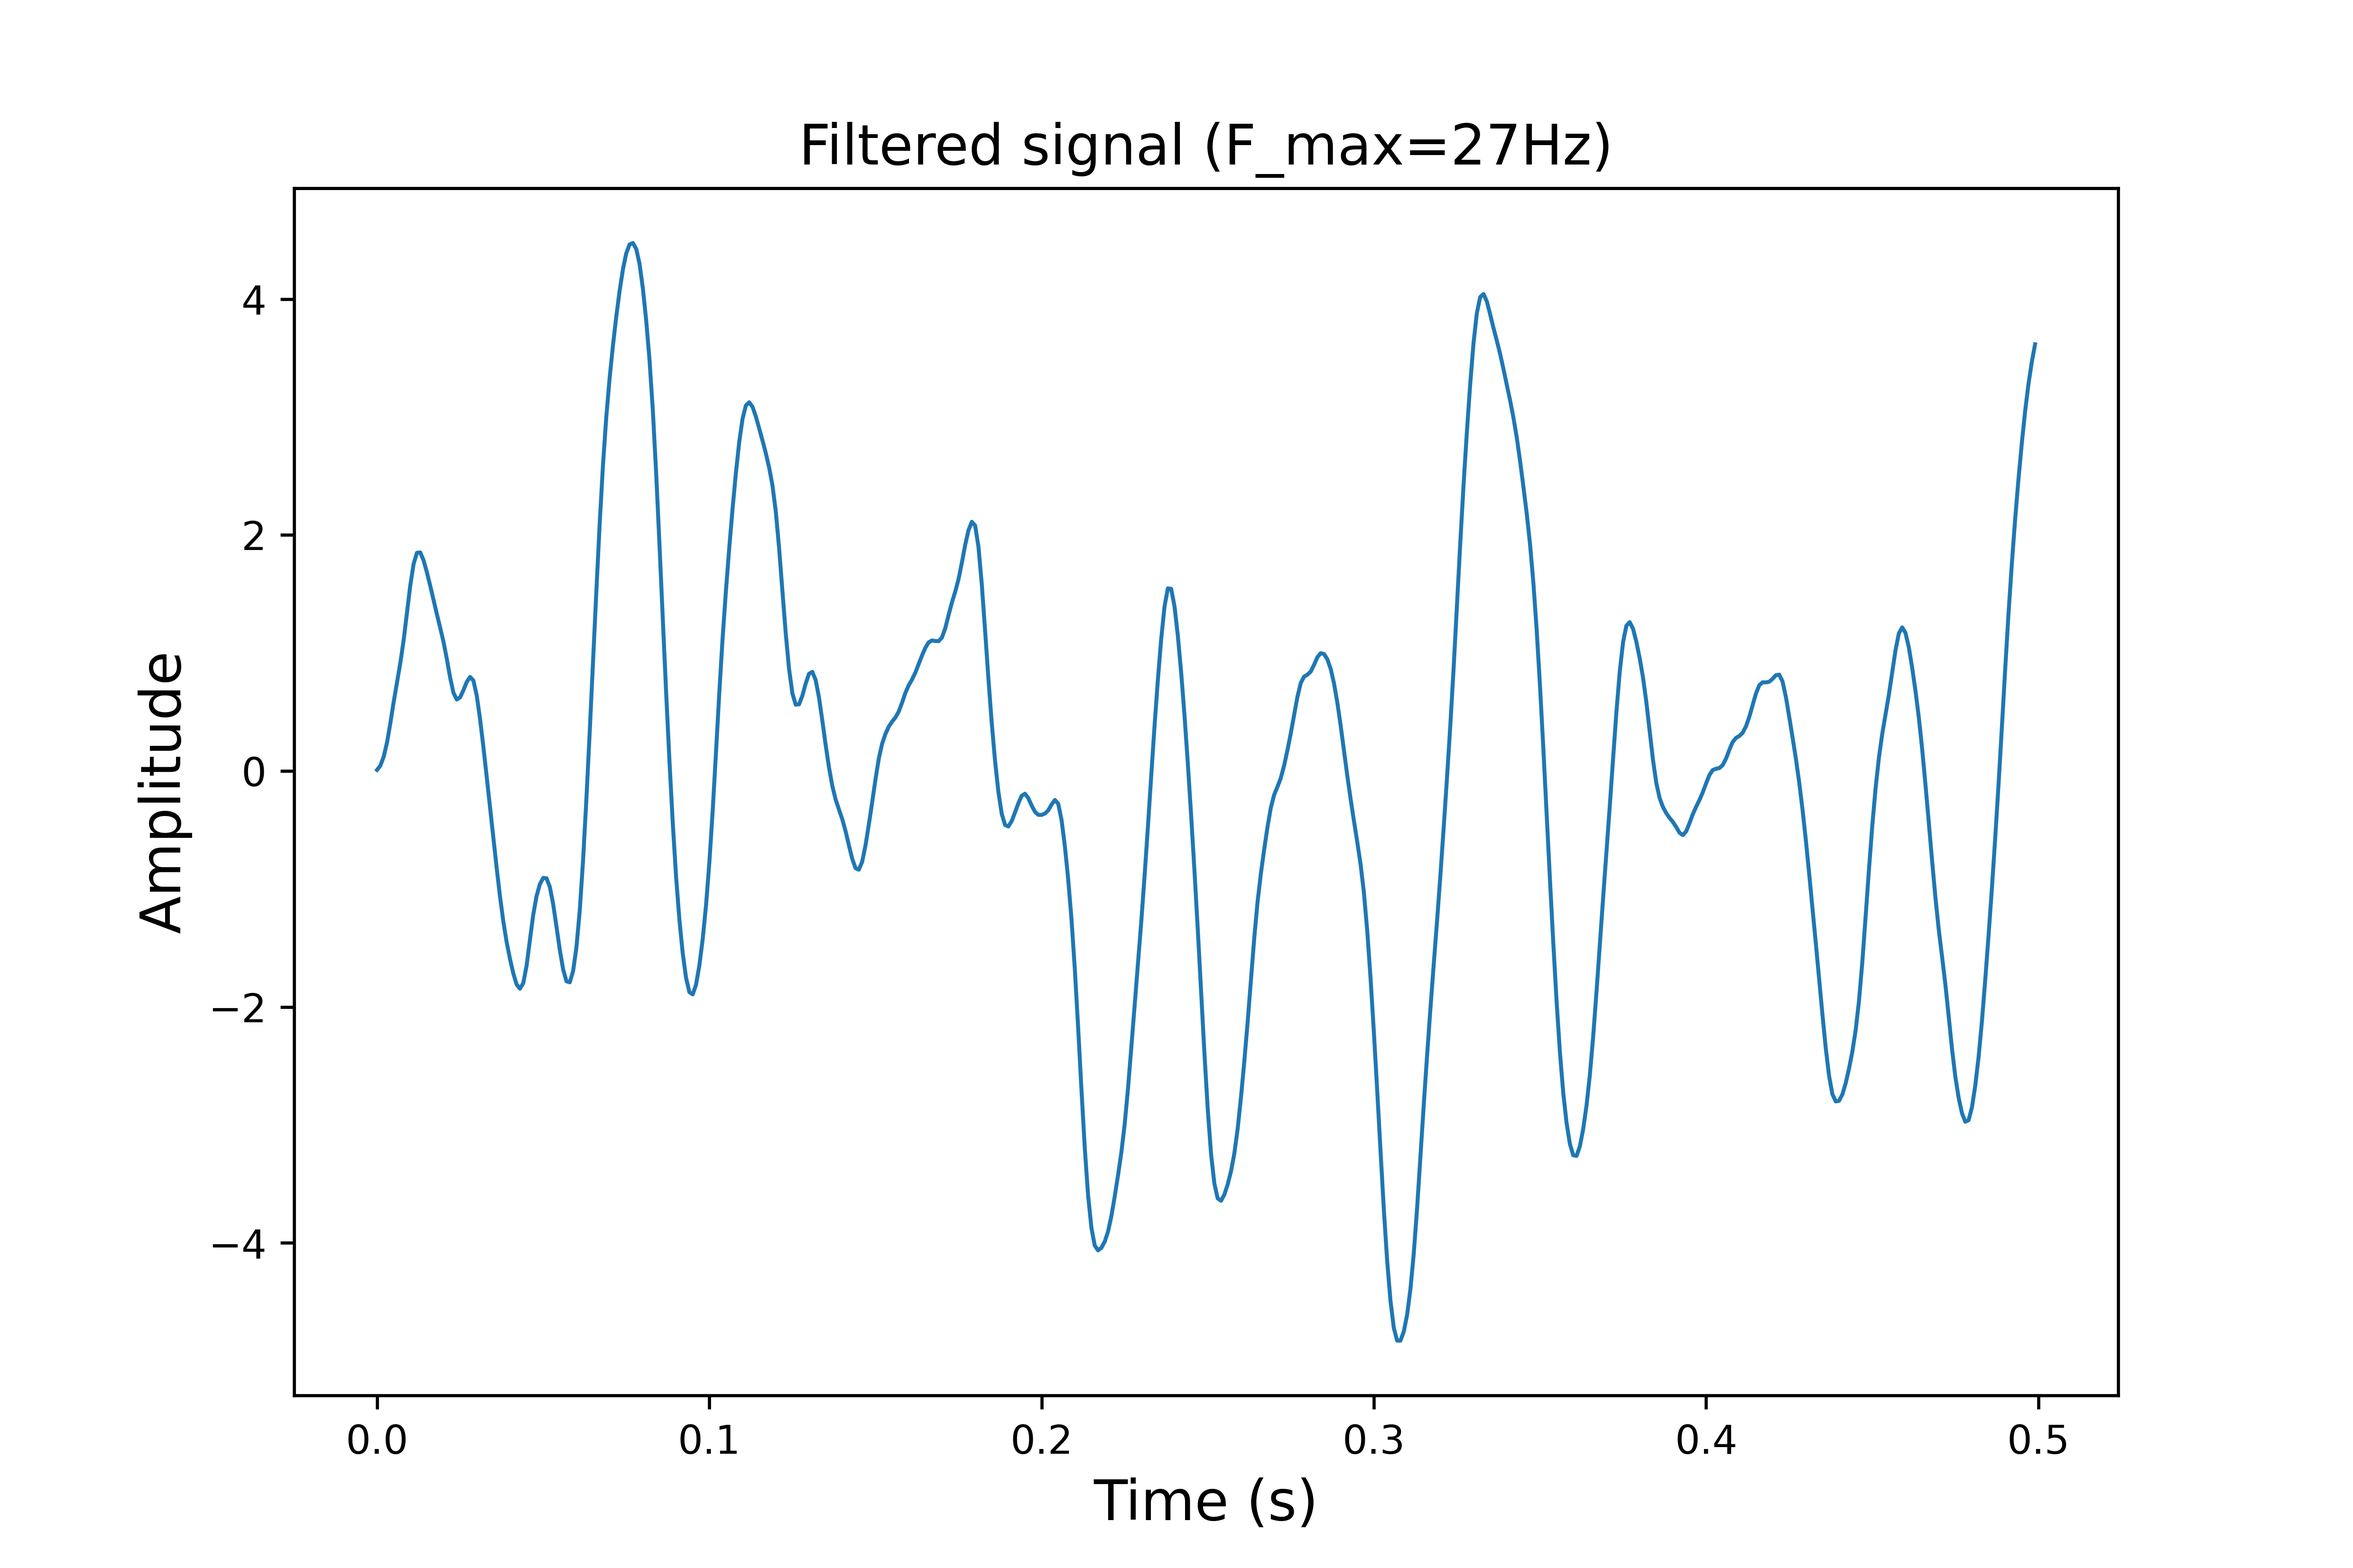
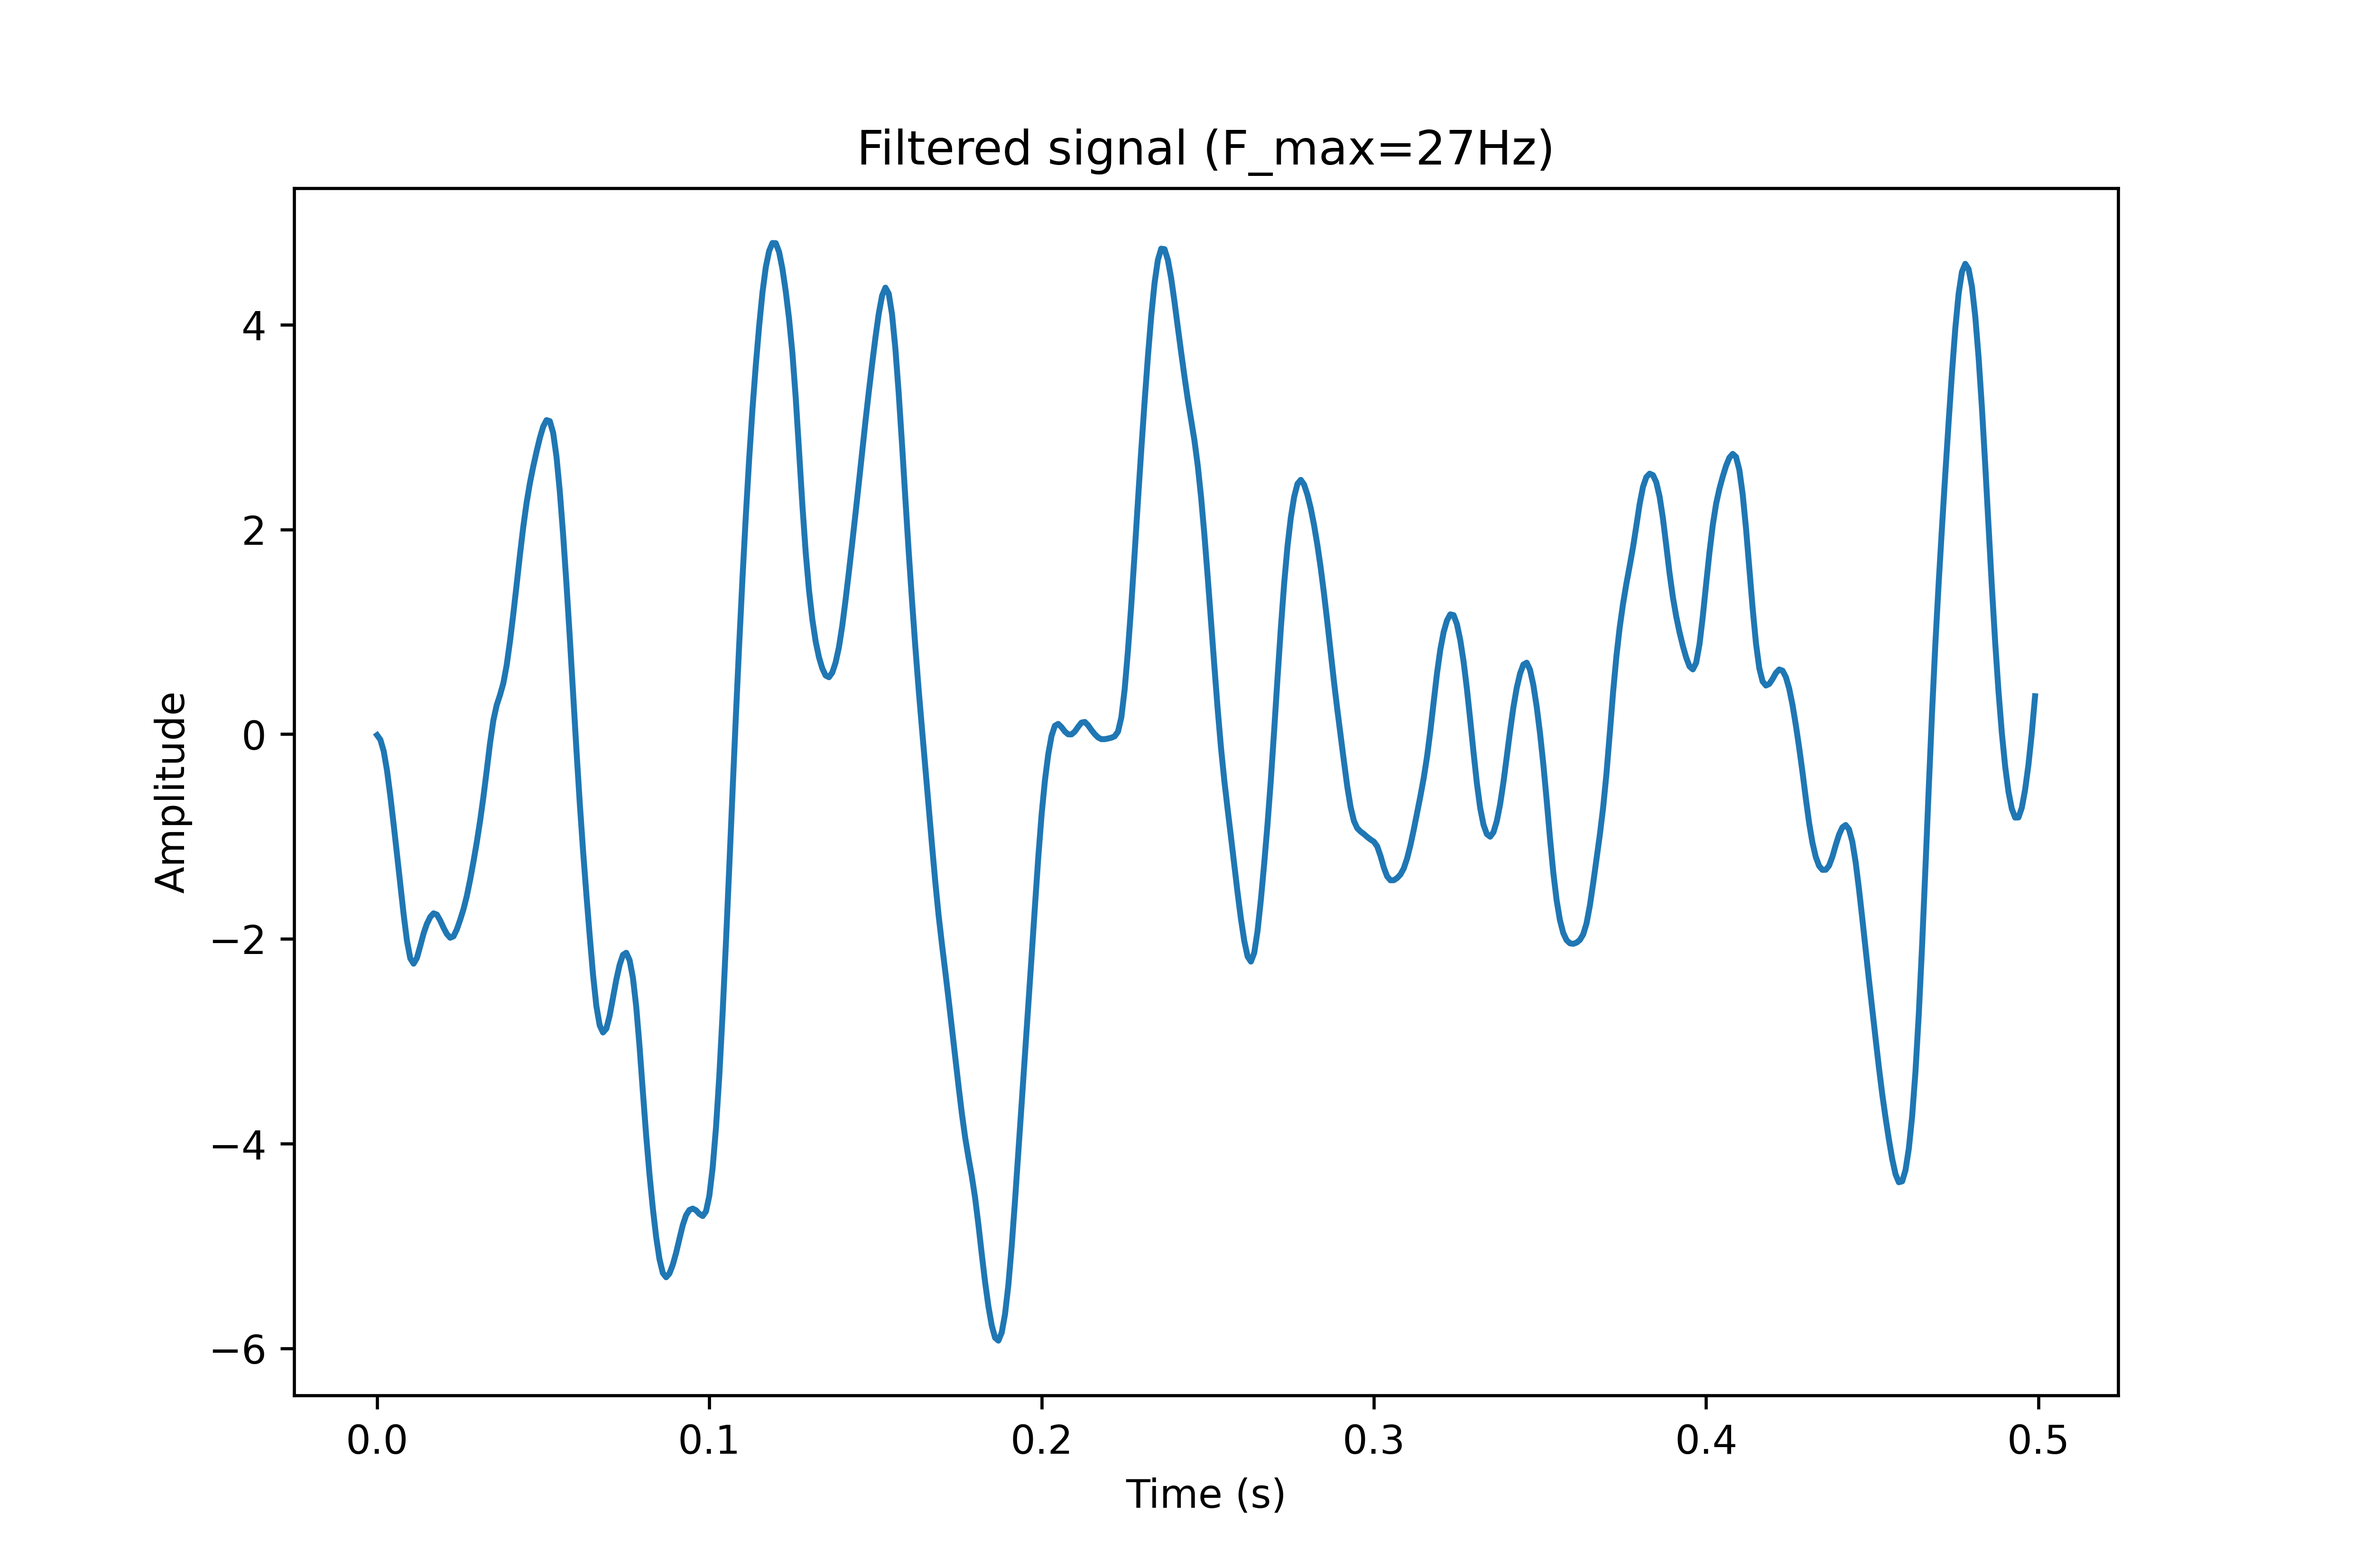
pr3

diff --git a/SignalProcessing/signal_processing.py b/SignalProcessing/signal_processing.py
@@ -1,16 +1,21 @@
 import numpy as np
 import matplotlib.pyplot as plt
 from scipy import signal, fft
+from scipy.fft import fft, fftshift, fftfreq
 import os
 
 #праметри варіант 13
 n = 500
 Fs = 1000
 F_max = 27
+F_filter = 34
 
 #створ папки figures
 if not os.path.exists("figures"):
     os.makedirs("figures")
+
+
+#-----ПРАКТИЧНА РОБОТА №2-----
 
 #1. генерація випадкового сигналу
 random_signal = np.random.normal(0, 10, n)
@@ -27,32 +32,116 @@ sos = signal.butter(3, w, 'low', output='sos')
 filtered_signal = signal.sosfilt(sos, random_signal)
 
 #функція побудови графіку
-def plot_graph(x, y, title, xlabel, ylabel):
+def plot_graph(x, y, name, xlabel, ylabel):
     fig, ax = plt.subplots(figsize=(21/2.54, 14/2.54))
-    ax.plot(x, y, linewidth=1)
-    ax.set_xlabel(xlabel, fontsize=14)
-    ax.set_ylabel(ylabel, fontsize=14)
-    plt.title(title, fontsize=14)
-    fig.savefig('./figures/' + title + '.png', dpi=600)
+    ax.plot(x, y)
+    ax.set_xlabel(xlabel)
+    ax.set_ylabel(ylabel)
+    plt.title(name)
+    fig.savefig(f'./figures/{name}.png', dpi=600)
     plt.close()
 
 #5. побудова сигналу
-plot_graph(time, filtered_signal,
-           "Filtered signal (F_max=27Hz)",
-           "Time (s)",
-           "Amplitude")
+plot_graph(time, filtered_signal,"Filtered signal (F_max=27Hz)","Time (s)","Amplitude")
 
 #6. розрахунок спектру
-spectrum = fft.fft(filtered_signal)
-spectrum_shifted = np.abs(fft.fftshift(spectrum))
+spectrum = fft(filtered_signal)
+freqs = fftfreq(n, d=1/Fs)
 
-freqs = fft.fftfreq(n, 1/Fs)
-freqs_shifted = np.abs(fft.fftshift(freqs))
 
 #7. побудова спектру
-plot_graph(freqs_shifted, spectrum_shifted,
-           "Spectrum (Fmax=27Hz)",
-           "Frequency (Hz)",
-           "Magnitude")
+plot_graph(fftshift(freqs), np.abs(fftshift(spectrum)),
+           "Spectrum", "Frequency (Hz)", "Magnitude")
 
-print("Графіки успішно збережені у папку figures")
+print("Графіки пр 2 успішно збережені у папку figures")
+
+
+
+#-----ПРАКТИЧНА РОБОТА №3-----
+
+Dt_values = [2, 4, 8, 16]
+
+discrete_signals = []
+discrete_spectrums = []
+restored_signals = []
+variances = []
+snr_values = []
+
+
+#частоти для спектру
+freqs = fftfreq(n, d=1/Fs)
+freqs_shifted = fftshift(freqs)
+
+#---- Основний цикл ----
+for Dt in Dt_values:
+
+    #1. дискретний сигнал
+    discrete_signal = np.zeros(n)
+
+    for i in range(int(n / Dt)):
+        discrete_signal[i * Dt] = filtered_signal[i * Dt]
+
+    discrete_signals.append(discrete_signal)
+
+    #2. спектр
+    spectrum = fft(discrete_signal)
+    discrete_spectrums.append(np.abs(fftshift(spectrum)))
+
+    #3. відновлення сигналу
+    w = F_filter / (Fs / 2)
+    sos = signal.butter(3, w, 'low', output='sos')
+    restored = signal.sosfiltfilt(sos, discrete_signal)
+    restored_signals.append(restored)
+
+    #4. похибка
+    error = restored - filtered_signal
+
+    var_signal = np.var(filtered_signal)
+    var_error = np.var(error)
+
+    variances.append(var_error)
+    snr_values.append(var_signal / var_error if var_signal != 0 else 0)
+
+    #--- Графік1: Дискретні сигнали ---
+    fig, ax = plt.subplots(2, 2, figsize=(21 / 2.54, 14 / 2.54))
+    for axis, sig, dt in zip(ax.flat, discrete_signals, Dt_values):
+        axis.plot(time, sig)
+        axis.set_title(f"Dt = {dt}")
+    fig.savefig('./figures/discrete_signals.png', dpi=600)
+    plt.close()
+
+    #--- Графік2: Спектри ---
+    fig, ax = plt.subplots(2, 2, figsize=(21 / 2.54, 14 / 2.54))
+    for axis, spec, dt in zip(ax.flat, discrete_spectrums, Dt_values):
+        axis.plot(freqs_shifted, spec)
+        axis.set_title(f"Dt = {dt}")
+    fig.savefig('./figures/discrete_spectrums.png', dpi=600)
+    plt.close()
+
+    #--- Графік3: Відновлені сигнали ---
+    fig, ax = plt.subplots(2, 2, figsize=(21 / 2.54, 14 / 2.54))
+    for axis, sig, dt in zip(ax.flat, restored_signals, Dt_values):
+        axis.plot(time, sig)
+        axis.set_title(f"Dt = {dt}")
+    fig.savefig('./figures/restored_signals.png', dpi=600)
+    plt.close()
+
+    #--- Графік4: Дисперсія ---
+    plt.figure(figsize=(21 / 2.54, 14 / 2.54))
+    plt.plot(Dt_values[:len(variances)], variances, marker='o')
+    plt.title("Variance vs Dt")
+    plt.xlabel("Dt")
+    plt.ylabel("Variance")
+    plt.savefig('./figures/variance_vs_dt.png', dpi=600)
+    plt.close()
+
+    #--- Графік5: SNR ---
+    plt.figure(figsize=(21 / 2.54, 14 / 2.54))
+    plt.plot(Dt_values[:len(variances)], variances, marker='o')
+    plt.title("SNR vs Dt")
+    plt.xlabel("Dt")
+    plt.ylabel("SNR")
+    plt.savefig('./figures/snr_vs_dt.png', dpi=600)
+    plt.close()
+
+    print("Практична робота №3. Усі графіки збережені у папку figures")
